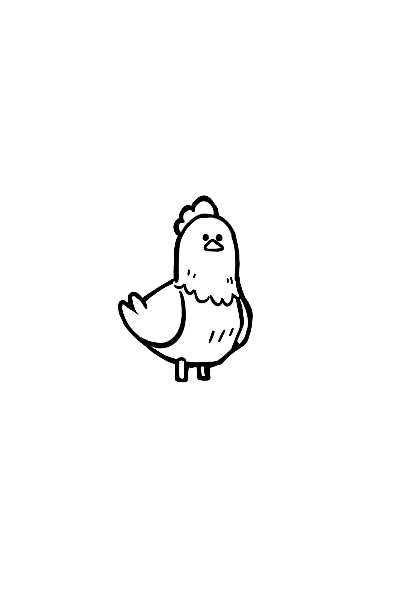
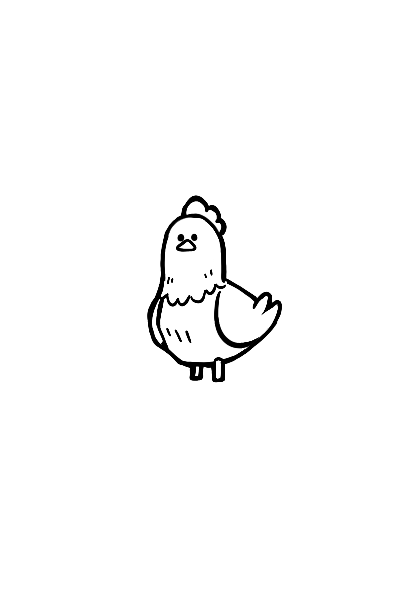
[닭 추가] #암탉의 스프라이트를 가로롤 뒤집음 #씬에 닭 오브젝트 추가 #닭의 움직임 작업 중. y축으로는 움직이지 않게할 예정.

Changed region(s): [[0.3, 0.3, 0.72, 0.66]]

diff --git a/Object/Creature/Chicken.cs b/Object/Creature/Chicken.cs
@@ -1,0 +1,77 @@
+using System.Collections;
+using System.Collections.Generic;
+using UnityEngine;
+
+public class Chicken : MonoBehaviour
+{
+    private float fTimer = 0;
+    private SpriteRenderer sprite;
+
+    private void OnEnable()
+    {
+        sprite = GetComponent<SpriteRenderer>();
+
+        StartCoroutine(CR_update());
+    }
+
+    private IEnumerator CR_update()
+    {
+        while(gameObject.activeSelf)
+        {
+            fTimer += Time.deltaTime;
+
+            if(fTimer >= 1.5f)
+            {
+                fTimer = 0;
+
+                if(Random.Range(0,3) != 2)
+                {
+                    yield return StartCoroutine(CR_movement());
+                }
+            }
+            yield return new WaitForFixedUpdate();
+        }
+        yield break;
+    }
+
+    private IEnumerator CR_movement()
+    {
+        Debug.Log("Move!");
+
+        Vector2 vDir;
+        vDir.x = transform.position.x;
+        vDir.y = transform.position.y;
+
+        vDir.x = Random.Range(-3.0f, 3.1f);
+        Debug.Log(vDir);
+        Debug.Log(vDir.y);
+
+        if (vDir.x == 0) yield break;
+
+        else if(transform.position.x > vDir.x)
+        {
+            sprite.flipX = false;
+
+            while (transform.position.x > vDir.x)
+            {
+                transform.position += (Vector3)vDir * Time.deltaTime;
+
+                yield return new WaitForFixedUpdate();
+            }
+            yield break;
+        }
+
+        else if (transform.position.x < vDir.x)
+        {
+            sprite.flipX = true;
+
+            while (transform.position.x < vDir.x)
+            {
+                transform.position += (Vector3)vDir * Time.deltaTime;
+
+                yield return new WaitForFixedUpdate();
+            }
+            yield break;
+        }
+    }
+}
